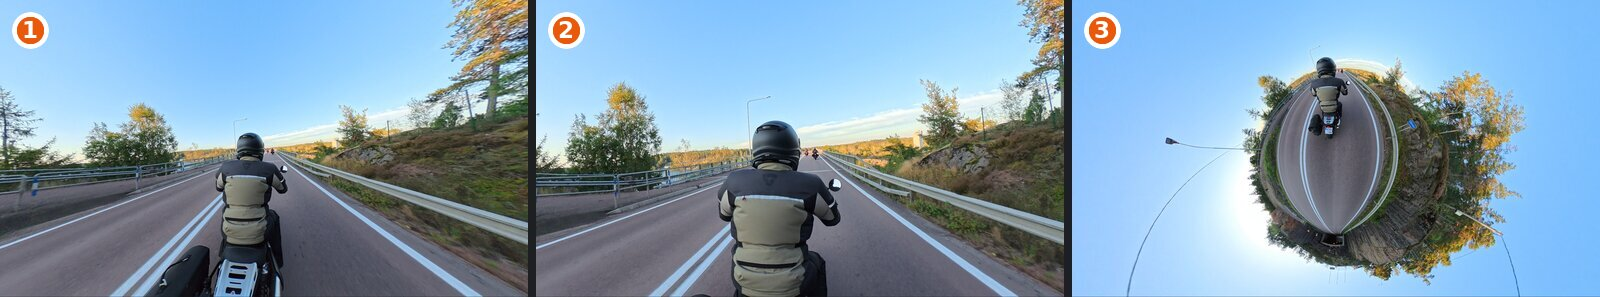
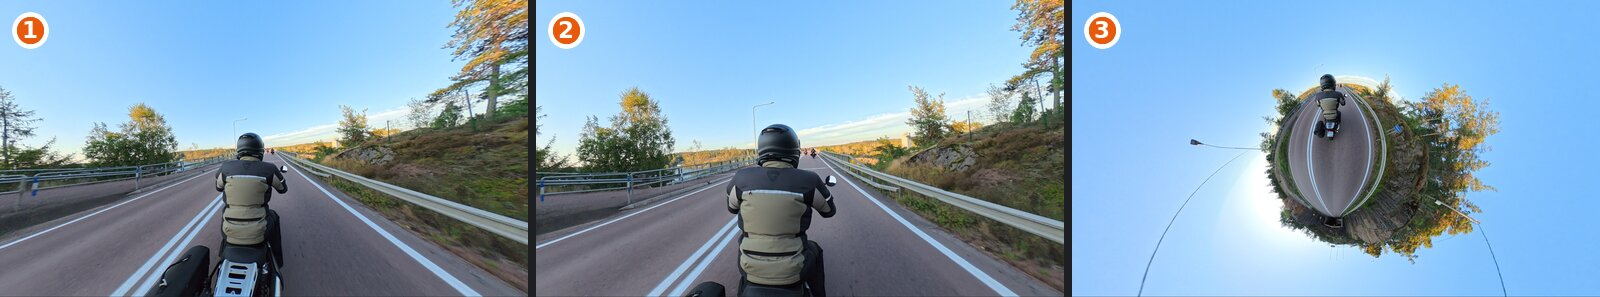
feat(render): Auto distortion holds the corners' stretch at 1.5
Auto took the distortion from a smoothstep of the diagonal angle between
90 and 170 degrees. It now uses the least distortion that keeps a shape
in the picture's corner from stretching more than 1.5 times, picked by
eye on riding clips with straight lines: none up to about 96 degrees,
20 % at the default 115 (23 % before), 46 % at 145 (77 % before), 75 %
at 200 (100 % before). Wide views keep straighter lines.

Auto never reaches full stereographic below 360 degrees, so its widest
view is 300 degrees (was 330); a fixed 100 % still goes to 330. Exports
and the viewport at Auto change wherever the diagonal is past ~96
degrees; a fixed distortion renders as before.

diff --git a/src/core/ViewProjection.h b/src/core/ViewProjection.h
@@ -131,16 +131,23 @@ inline bool pointToPlane(const T p[3], T distortion, T& x, T& y, T near = T(0))
     return true;
 }
 
-// The distortion Auto gives a diagonal field of view `fov`: none up to
-// 90 deg, where rectilinear still looks natural, easing to stereographic at
-// 170 deg and wider.
+// How much Auto lets a shape in the picture's corner stretch: the radial
+// over the tangential magnification there, (1 + d cos) / (d + cos) at the
+// corner's angle off the axis (1 / cos rectilinear, 1 stereographic).
+// Chosen by eye on riding clips with straight lines: less bends lines
+// that a little stretch wouldn't spoil, more smears the corners.
+inline constexpr double kAutoCornerStretch = 1.5;
+
+// The distortion Auto gives a diagonal field of view `fov`: the least that
+// keeps the corners' stretch at kAutoCornerStretch, so lines stay as
+// straight as that allows. None up to ~96 deg, 20 % at the default 115,
+// ~46 % at 145, ~75 % at 200, nearing stereographic only at a tiny planet.
 template <class T>
 inline T autoDistortion(T fov)
 {
-    constexpr T kFrom = T(1.5707963267948966); // 90 deg
-    constexpr T kTo = T(2.9670597283903604);   // 170 deg
-    const T t = std::clamp((fov - kFrom) / (kTo - kFrom), T(0), T(1));
-    return t * t * (T(3) - T(2) * t);
+    constexpr T s = T(kAutoCornerStretch);
+    const T c = std::cos(fov * T(0.5));
+    return std::clamp((T(1) - s * c) / (s - c), T(0), T(1));
 }
 
 // The d a pose renders with: its own, or Auto's for its field of view.
@@ -153,9 +160,10 @@ inline double distortionOf(const Pose& pose)
 // The field of view's range, radians diagonal. The widest keeps the corners
 // short of where the projection runs off to infinity (d + cos(theta) = 0):
 // 145 deg rectilinear, 330 deg stereographic (a tiny planet with the sky
-// round it). Auto: the widest stereographic, its distortion grows with the
-// angle fast enough to stay within it.
+// round it). Auto: 300 deg, within the limit of the distortion it gives
+// there (97 %; the two meet at ~305 deg).
 inline constexpr double kMinFov = 0.3490658503988659; // 20 deg
+inline constexpr double kMaxAutoFov = 5.235987755982989; // 300 deg
 template <class T>
 inline T maxFov(T distortion)
 {
@@ -165,7 +173,7 @@ inline T maxFov(T distortion)
 }
 inline double maxFov(const Pose& pose)
 {
-    return maxFov(pose.distortionIsAuto() ? 1.0 : double(pose.distortion));
+    return pose.distortionIsAuto() ? kMaxAutoFov : maxFov(double(pose.distortion));
 }
 
 // The ray angle off the axis that lands at plane radius `r`, planeRadius's

diff --git a/tests/view_projection_test.cpp b/tests/view_projection_test.cpp
@@ -177,17 +177,23 @@ void testAutoDistortion()
     constexpr double deg = kPi / 180.0;
     CHECK(view::autoDistortion(20.0 * deg) == 0.0);
     CHECK(view::autoDistortion(90.0 * deg) == 0.0);
-    CHECK(view::autoDistortion(170.0 * deg) == 1.0);
-    CHECK(view::autoDistortion(300.0 * deg) == 1.0);
     double last = 0.0;
-    for (double fov = 20.0; fov < 330.0; fov += 1.0) {
+    for (double fov = 20.0; fov < 360.0; fov += 1.0) {
         const double d = view::autoDistortion(fov * deg);
-        CHECK(d >= last && d >= 0.0 && d <= 1.0);
+        CHECK(d >= last && d >= 0.0 && d < 1.0);
         last = d;
+        // The corner's shape stretch: rectilinear's where that is under the
+        // limit, else held at the limit.
+        const double c = std::cos(fov * deg / 2.0);
+        const double stretch = (1.0 + d * c) / (d + c);
+        if (d > 0.0)
+            CHECK(near(stretch, view::kAutoCornerStretch, 1e-9));
+        else
+            CHECK(c <= 0.0 || 1.0 / c <= view::kAutoCornerStretch + 1e-12);
     }
     view::Pose p;
-    p.fov = 130.0 * deg;
-    CHECK(near(view::distortionOf(p), 0.5));
+    p.fov = 145.0 * deg;
+    CHECK(near(view::distortionOf(p), 0.4577, 1e-4));
     p.distortion = 0.25f;
     CHECK(view::distortionOf(p) == 0.25);
 }
@@ -205,7 +211,7 @@ void testLimits()
     // Auto's distortion grows with the angle fast enough: every angle up to
     // its limit is within the limit of the distortion it gets.
     view::Pose a;
-    CHECK(near(view::maxFov(a), 330.0 * deg));
+    CHECK(near(view::maxFov(a), 300.0 * deg));
     for (double fov = view::kMinFov; fov <= view::maxFov(a); fov += 0.01)
         CHECK(fov <= view::maxFov(view::autoDistortion(fov)) + 1e-12);
     // A renderer holds the angle in its distortion's range.

diff --git a/tests/clip_item_test.cpp b/tests/clip_item_test.cpp
@@ -245,7 +245,7 @@ void testWideViewKeys()
     r.upsert(1000, wide, 40);
     ReframePose mid = r.sample(500);
     CHECK(std::abs(mid.fov - 130.0 * deg) < 1e-9 && mid.distortionIsAuto());
-    CHECK(std::abs(view::distortionOf(mid) - 0.5) < 1e-6);
+    CHECK(std::abs(view::distortionOf(mid) - view::autoDistortion(130.0 * deg)) < 1e-12);
 
     wide.distortion = 0.6f; // fixed; narrow's Auto shows 0
     r.upsert(1000, wide, 40);

diff --git a/docs/manual/reframing.md b/docs/manual/reframing.md
@@ -45,8 +45,8 @@ corners stay where they were, the edges of the picture move.
 
 1. 140° at 0 %: straight lines stay straight, but the rider in the middle
    is small and everything toward the edges is stretched.
-2. The same 140° at **Auto**: the middle is larger and the edges are no
-   longer stretched; lines away from the middle bend a little.
+2. The same 140° at **Auto**: the middle is larger and the edges stretch
+   much less; lines away from the middle bend a little.
 3. A tiny planet: pitch −89° (straight down), field of view 300°.
 
 A normal camera view keeps straight lines straight. That works up to a
@@ -56,11 +56,14 @@ fisheye lens would instead: the edges keep their shapes, and lines away from
 the middle bend.
 
 With **Auto** ticked (the default), the distortion follows the field of
-view: none up to about 90°, rising to full at 170° and wider. The slider
-shows the amount Auto uses. Untick **Auto** to set the amount yourself with
-the slider: 0 % keeps every line straight, 100 % keeps every shape. The
-widest field of view depends on the amount: 145° at 0 %, 330° at 100 % or
-with Auto. Lowering the amount narrows a view that is wider than it allows.
+view: it uses the least amount that keeps shapes in the corners from
+stretching more than half again their size, so lines stay as straight as
+that allows. That is none up to about 95°, about 20 % at the default 115°,
+45 % at 145° and 75 % at 200°. The slider shows the amount Auto uses.
+Untick **Auto** to set the amount yourself with the slider: 0 % keeps every
+line straight, 100 % keeps every shape. The widest field of view depends on
+the amount: 145° at 0 %, 330° at 100 %, 300° with Auto. Lowering the amount
+narrows a view that is wider than it allows.
 
 For a **tiny planet**, look straight down (pitch −89°) and widen the field
 of view to 250° or more: the ground curls into a small globe with the sky
@@ -70,7 +73,7 @@ with Auto on both keyframes the picture bends more and more as it widens.
 
 > **Projects from earlier versions** keep their views: each keyframe takes
 > the corner-to-corner angle that frames what it framed before, with
-> distortion on Auto. Views wider than about 90° corner to corner now
+> distortion on Auto. Views wider than about 95° corner to corner now
 > look less stretched at the edges; that is most of them, since the old
 > default, 75° from top to bottom, is 115° corner to corner in a 16:9
 > picture. To get the old look back, untick **Auto** and set 0 %.

diff --git a/docs/roadmap.md b/docs/roadmap.md
@@ -24,7 +24,8 @@ back (`d = 1`, stereographic). It blends between keyframes like the field of
 view, so a move can go from a normal view into a wide fisheye look or a
 tiny-earth planet. The field of view becomes the **diagonal** angle (corner
 to corner), so landscape and portrait frame alike. By default `d` follows it
-(0 up to about 90° diagonal, rising to 1 around 170°) with a manual override
+(the least `d` that keeps a shape in the corner from stretching more than
+1.5 times: 0 up to about 96° diagonal, 0.46 at 145°) with a manual override
 per keyframe; the field-of-view limit then depends on `d`. Old projects load
 with the automatic `d`, so their wide views lose the stretch. It is a change
 to all the view implementations and the subject tracker's crop together
@@ -34,9 +35,10 @@ to all the view implementations and the subject tracker's crop together
   `view_projection.glsl`) and used by every implementation; (2) the
   distortion and the diagonal field of view in the keyframes and the
   project file (format 17), the automatic amount, the Reframe section's
-  **Distortion** row, the angle limits (145° rectilinear up to 330°).
-- next: the default angle and the automatic curve's ends tuned by eye on
-  clips with straight lines.
+  **Distortion** row, the angle limits (145° rectilinear up to 330°);
+  (3) the automatic amount chosen on riding clips with straight lines.
+- next: whether Horizon lock keeps a tiny planet upright looking straight
+  down.
 
 ### 2. Insta360 X6
 
